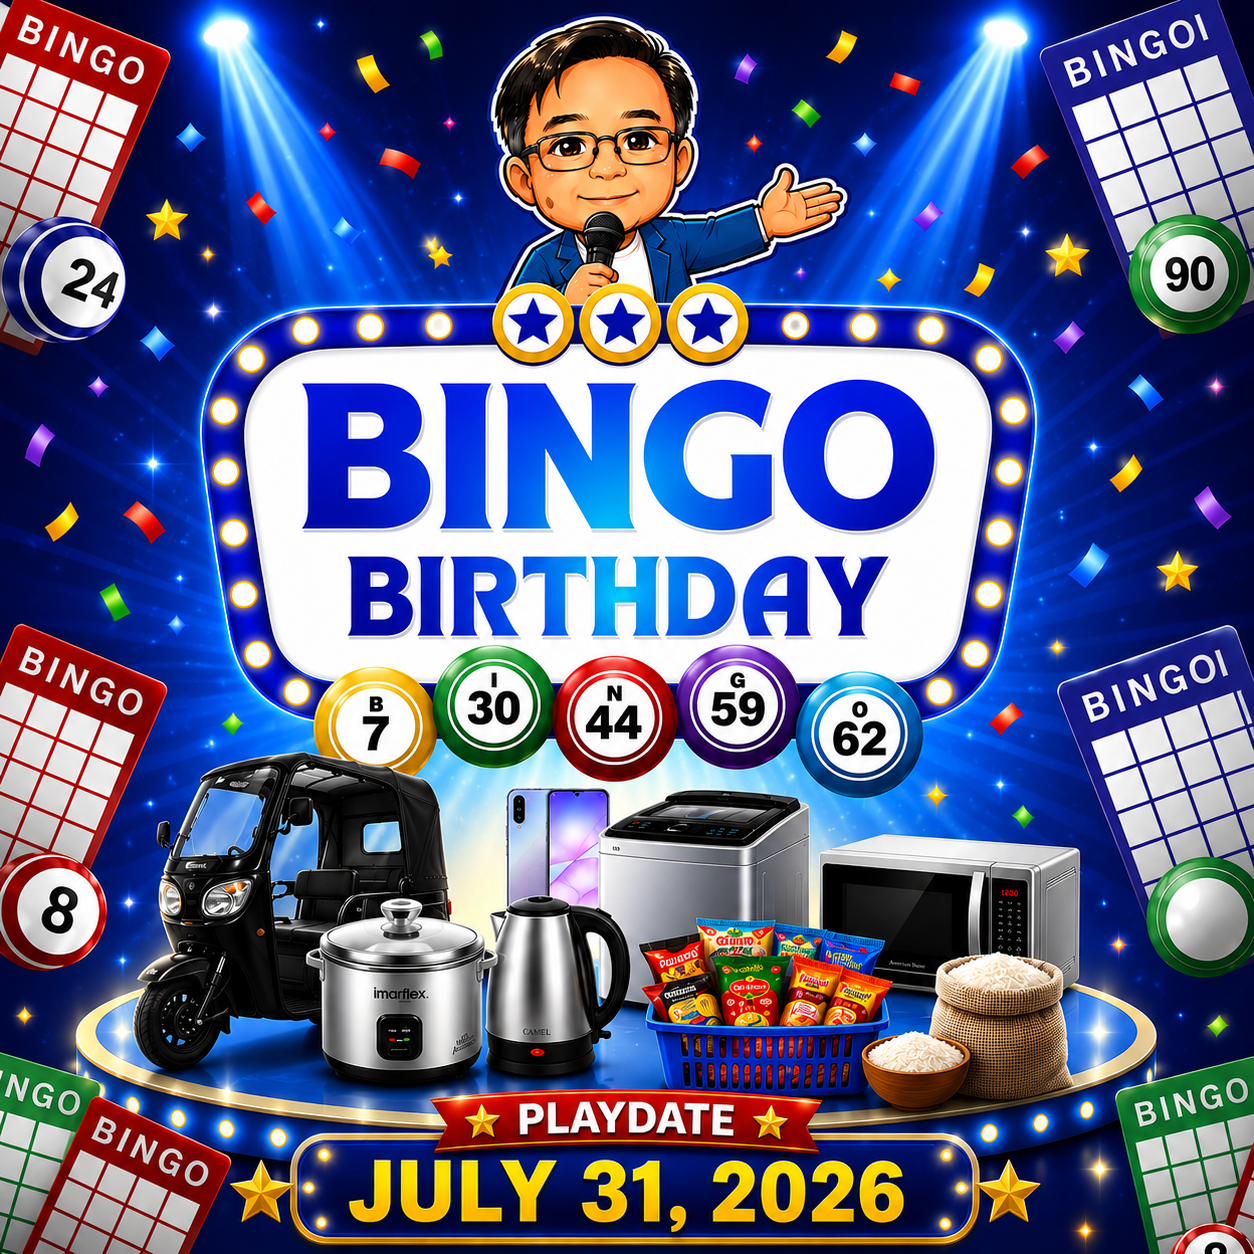
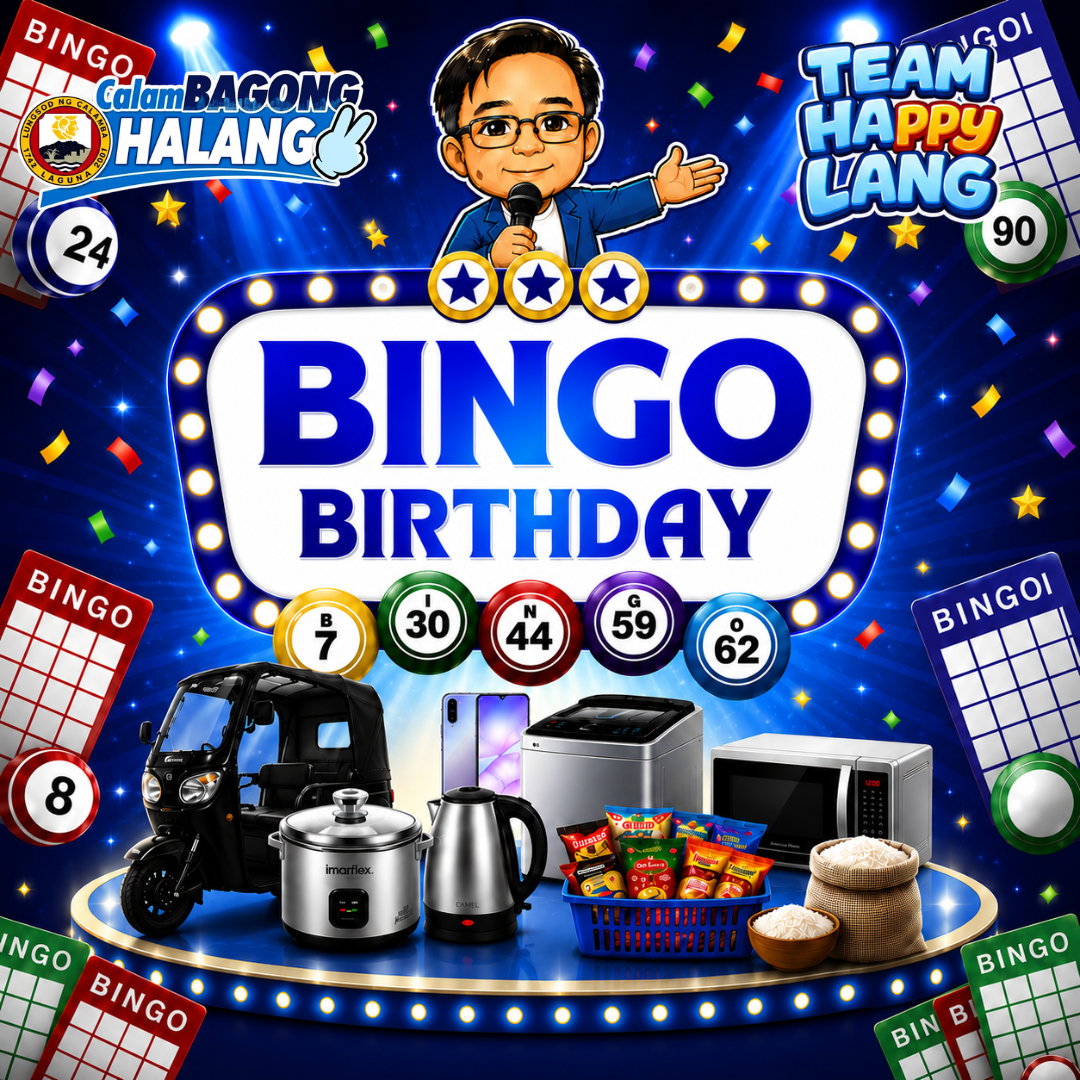
Update bingo announcement artwork

diff --git a/index.html b/index.html
@@ -838,9 +838,9 @@
       <div class="service-copy">
         <span class="service-tag">05 · Community Event</span>
         <h3>Bingo Birthday</h3>
-        <p>Join the HAppyLANG Bingo Birthday playdate on July 31, 2026, with prizes, community fun, and a celebration made for Halang families.</p>
+        <p>Join the HAppyLANG Bingo Birthday playdate, with prizes, community fun, and a celebration made for Halang families. Final schedule will be announced soon.</p>
         <ul class="service-list">
-          <li>Playdate on July 31, 2026</li>
+          <li>Final playdate schedule to be announced</li>
           <li>Open registration through the online form</li>
           <li>Prizes and community celebration for participants</li>
         </ul>
@@ -973,7 +973,7 @@
       <a href="https://forms.gle/S798bWoh8ZVbe8pF6" target="_blank" rel="noopener" class="btn btn-small">Register here</a>
     </div>
     <div class="modal-body">
-      <img class="announcement-image" src="assets/announcement-bingo.png" alt="Bingo Birthday playdate announcement for July 31, 2026">
+      <img class="announcement-image" src="assets/announcement-bingo.png" alt="Bingo Birthday playdate announcement">
     </div>
   </div>
 </div>